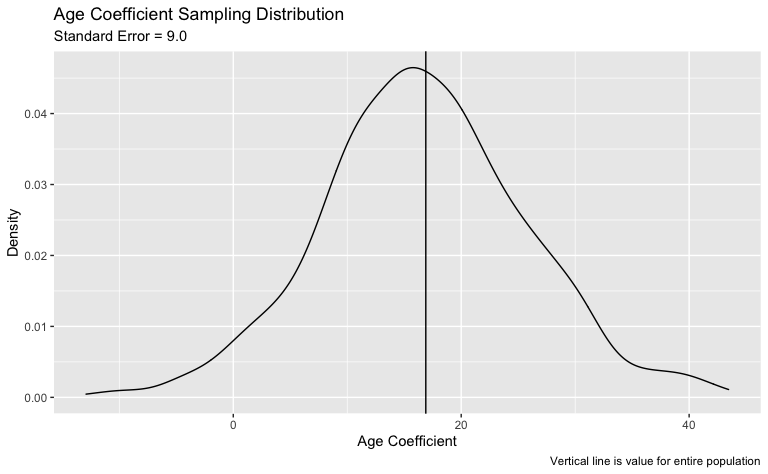
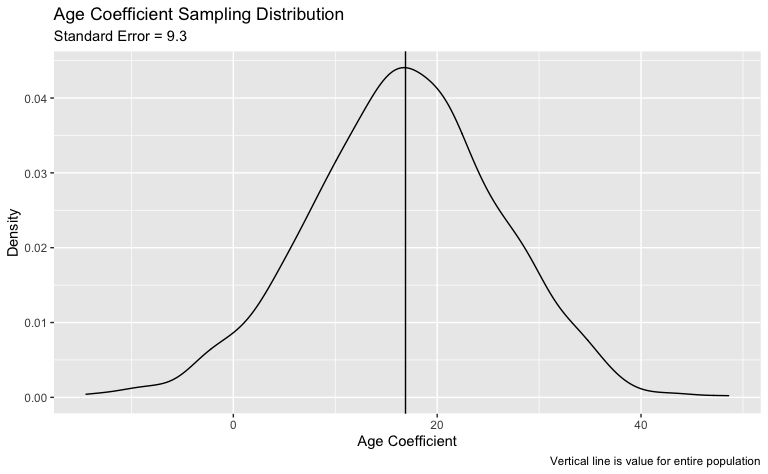
Added work for confidence interval calculation.  Cleaned up some details in the Sampling Examples as well.

diff --git a/ConfidenceIntervals.md b/ConfidenceIntervals.md
@@ -1,0 +1,92 @@
+Statistical Modeling: Confidence Intervals
+================
+H. David Shea
+3 March 2021
+
+### Data
+
+Examples below use the mosaic SAT dataset. These data are SAT data
+assembled for a statistics education journal article on the link between
+SAT scores and measures of educational expenditures. Skimmed output
+follows:
+
+|                                                  |            |
+|:-------------------------------------------------|:-----------|
+| Name                                             | Piped data |
+| Number of rows                                   | 50         |
+| Number of columns                                | 8          |
+| \_\_\_\_\_\_\_\_\_\_\_\_\_\_\_\_\_\_\_\_\_\_\_   |            |
+| Column type frequency:                           |            |
+| factor                                           | 1          |
+| numeric                                          | 7          |
+| \_\_\_\_\_\_\_\_\_\_\_\_\_\_\_\_\_\_\_\_\_\_\_\_ |            |
+| Group variables                                  | None       |
+
+Data summary
+
+**Variable type: factor**
+
+| skim\_variable | n\_missing | complete\_rate | ordered | n\_unique | top\_counts                    |
+|:---------------|-----------:|---------------:|:--------|----------:|:-------------------------------|
+| state          |          0 |              1 | FALSE   |        50 | Ala: 1, Ala: 1, Ari: 1, Ark: 1 |
+
+**Variable type: numeric**
+
+| skim\_variable | n\_missing | complete\_rate |   mean |    sd |     p0 |    p25 |    p50 |     p75 |    p100 | hist  |
+|:---------------|-----------:|---------------:|-------:|------:|-------:|-------:|-------:|--------:|--------:|:------|
+| expend         |          0 |              1 |   5.91 |  1.36 |   3.66 |   4.88 |   5.77 |    6.43 |    9.77 | ▆▇▆▁▂ |
+| ratio          |          0 |              1 |  16.86 |  2.27 |  13.80 |  15.22 |  16.60 |   17.58 |   24.30 | ▇▇▃▁▁ |
+| salary         |          0 |              1 |  34.83 |  5.94 |  25.99 |  30.98 |  33.29 |   38.55 |   50.05 | ▅▇▃▂▂ |
+| frac           |          0 |              1 |  35.24 | 26.76 |   4.00 |   9.00 |  28.00 |   63.00 |   81.00 | ▇▂▂▃▃ |
+| verbal         |          0 |              1 | 457.14 | 35.18 | 401.00 | 427.25 | 448.00 |  490.25 |  516.00 | ▇▇▃▇▇ |
+| math           |          0 |              1 | 508.78 | 40.20 | 443.00 | 474.75 | 497.50 |  539.50 |  592.00 | ▆▇▃▆▃ |
+| sat            |          0 |              1 | 965.92 | 74.82 | 844.00 | 897.25 | 945.50 | 1032.00 | 1107.00 | ▇▇▃▇▃ |
+
+This shows the scatter plot of SAT scores versus estimated average
+annual salary of teachers in each state. The liner model regression line
+for the data is shown as well.
+
+<img src="ConfidenceIntervals_files/figure-gfm/r population_scatter-1.png" width="70%" style="display: block; margin: auto;" />
+
+The simple model doesn’t show a strong relationship between SAT scores
+and teachers salaries and - maybe counter-intuitively - hints at higher
+salaries being associated with lower SAT scores.
+
+### Model: sat \~ salary + ratio + frac
+
+Now fitting this potentially more robust and meaningful linear model for
+the entire population. It includes `salary`, as well as average
+pupil/teacher ratio per classroom (`ratio`) and percentage of all
+eligible students taking the SAT (`frac`) in the state as explanatory
+variables.
+
+Model coefficients from entire population
+
+``` r
+sat_pop <- lm(sat ~ salary + ratio + frac, data = SAT)
+format(coef(sat_pop), digits = 2, nsmall = 1)
+#> (Intercept)      salary       ratio        frac 
+#>    "1057.9"    "   2.6"    "  -4.6"    "  -2.9"
+```
+
+Standard Error estimates for entire population
+
+``` r
+summary.lm(sat_pop)$coefficients
+#>                Estimate Std. Error    t value     Pr(>|t|)
+#> (Intercept) 1057.898162 44.3286685  23.864876 1.496236e-27
+#> salary         2.552470  1.0045183   2.540989 1.449126e-02
+#> ratio         -4.639428  2.1215142  -2.186847 3.387652e-02
+#> frac          -2.913350  0.2282436 -12.764215 1.007685e-16
+```
+
+This shows the confidence interval for `salary` is about 2.5 +/- 2.0 at
+the 95% level (two standard deviations). So, the indication is higher
+teach salaries are associated with higher test scores from this model
+perspective. Also, the confidence interval for `ratio` is about -4.6 +/-
+4.2 at the 95% level. Potentially indicative that higher student-faculty
+ratios have a negative impact on SAT scores from this model perspective
+since the interval does not cover zero. The tight confidence interval on
+`frac` (-2.9 +/- 0.4) and the fact that the interval does not approach
+positive territory shows the important negative impact of this
+*covariate*.

diff --git a/SamplingExamples.md b/SamplingExamples.md
@@ -3,7 +3,9 @@ Statistical Modeling: Sampling Distribution & Model Coefficients
 H. David Shea
 3 March 2021
 
-Examples below use the mosaic TenMileRace data set. These data are
+### Data
+
+Examples below use the mosaic TenMileRace dataset. These data are
 running times for 8636 registered participants in the Cherry Blossom Ten
 Mile Race held in Washington, D.C. in April 2005. Skimmed output
 follows:
@@ -42,7 +44,7 @@ and Males
 
 <img src="SamplingExamples_files/figure-gfm/r population_density-1.png" width="70%" style="display: block; margin: auto;" />
 
-### net \~ age + sex
+### Model: net \~ age + sex
 
 Now fitting this linear model for the entire population and random
 samples of n = 100 from the entire population.
@@ -50,8 +52,8 @@ samples of n = 100 from the entire population.
 Model coefficients from entire population
 
 ``` r
-tmr_model1 <- lm(net ~ age + sex, data = TenMileRace)
-format(coef(tmr_model1), digits = 2, nsmall = 1)
+tmr_pop <- lm(net ~ age + sex, data = TenMileRace)
+format(coef(tmr_pop), digits = 2, nsmall = 1)
 #> (Intercept)         age        sexM 
 #>    "5339.2"    "  16.9"    "-726.6"
 ```
@@ -66,17 +68,20 @@ for(x in 1:10) {
         )
     cat("\n")
 }
-#> 1 5411.7   15.9 -620.8
-#> 2 5702.3    2.4 -549.6
-#> 3 5643.1    8.4 -697.0
-#> 4 5290.2   19.8 -832.1
-#> 5 5430.6   16.9 -563.8
-#> 6 4759.3   35.3 -919.4
-#> 7 5660.3    7.9 -686.1
-#> 8 4960.3   24.7 -824.8
-#> 9 5399.9   10.8 -533.8
-#> 10 5402.7   12.6 -629.4
+#> 1 5577.4    7.5 -456.2
+#> 2 5525.6   11.2 -765.3
+#> 3 5527.7   10.4 -571.5
+#> 4 5973.8    3.6 -669.8
+#> 5 5980.0    4.9 -538.6
+#> 6 5183.8   25.2 -802.1
+#> 7 5417.1   15.4 -726.9
+#> 8 5464.9   11.6 -705.2
+#> 9  5215.4    29.6 -1087.7
+#> 10 5652.4    4.8 -714.8
+rm(x)
 ```
+
+### Sampling
 
 Density plots for sampling distributions of the model coefficients of
 1000 random samples of n = 100 observations
@@ -92,18 +97,18 @@ regression report function `summary.lm()`
 
     #> Coefficients:
     #>                Estimate Std. Error    t value     Pr(>|t|)
-    #> (Intercept) 5838.308881 326.956704 17.8565199 2.011476e-32
-    #> age           -1.120241   8.989144 -0.1246215 9.010811e-01
-    #> sexM        -451.094578 180.442459 -2.4999359 1.409967e-02
+    #> (Intercept) 5419.388643 298.182102 18.1747617 5.356313e-33
+    #> age            8.540484   8.741814  0.9769693 3.310146e-01
+    #> sexM        -280.544773 171.998924 -1.6310845 1.061153e-01
     #> 
     #> Coefficients:
     #>               Estimate Std. Error   t value     Pr(>|t|)
-    #> (Intercept) 5666.85433 343.215160 16.511084 6.230320e-30
-    #> age           10.16118   9.098073  1.116849 2.668177e-01
-    #> sexM        -593.33891 191.198123 -3.103267 2.507871e-03
+    #> (Intercept) 4839.33184  382.58704 12.648970 3.052723e-22
+    #> age           33.69693   10.69243  3.151476 2.161154e-03
+    #> sexM        -718.04456  225.32862 -3.186655 1.936897e-03
     #> 
     #> Coefficients:
     #>               Estimate Std. Error   t value     Pr(>|t|)
-    #> (Intercept) 5208.24699 366.031400 14.228962 1.762445e-25
-    #> age           22.09115   9.363239  2.359350 2.031096e-02
-    #> sexM        -883.41790 190.842481 -4.629042 1.139051e-05
+    #> (Intercept) 5024.66680 316.265479 15.887497 9.613690e-29
+    #> age           25.44376   9.215788  2.760888 6.894168e-03
+    #> sexM        -966.80253 192.291545 -5.027795 2.270746e-06
